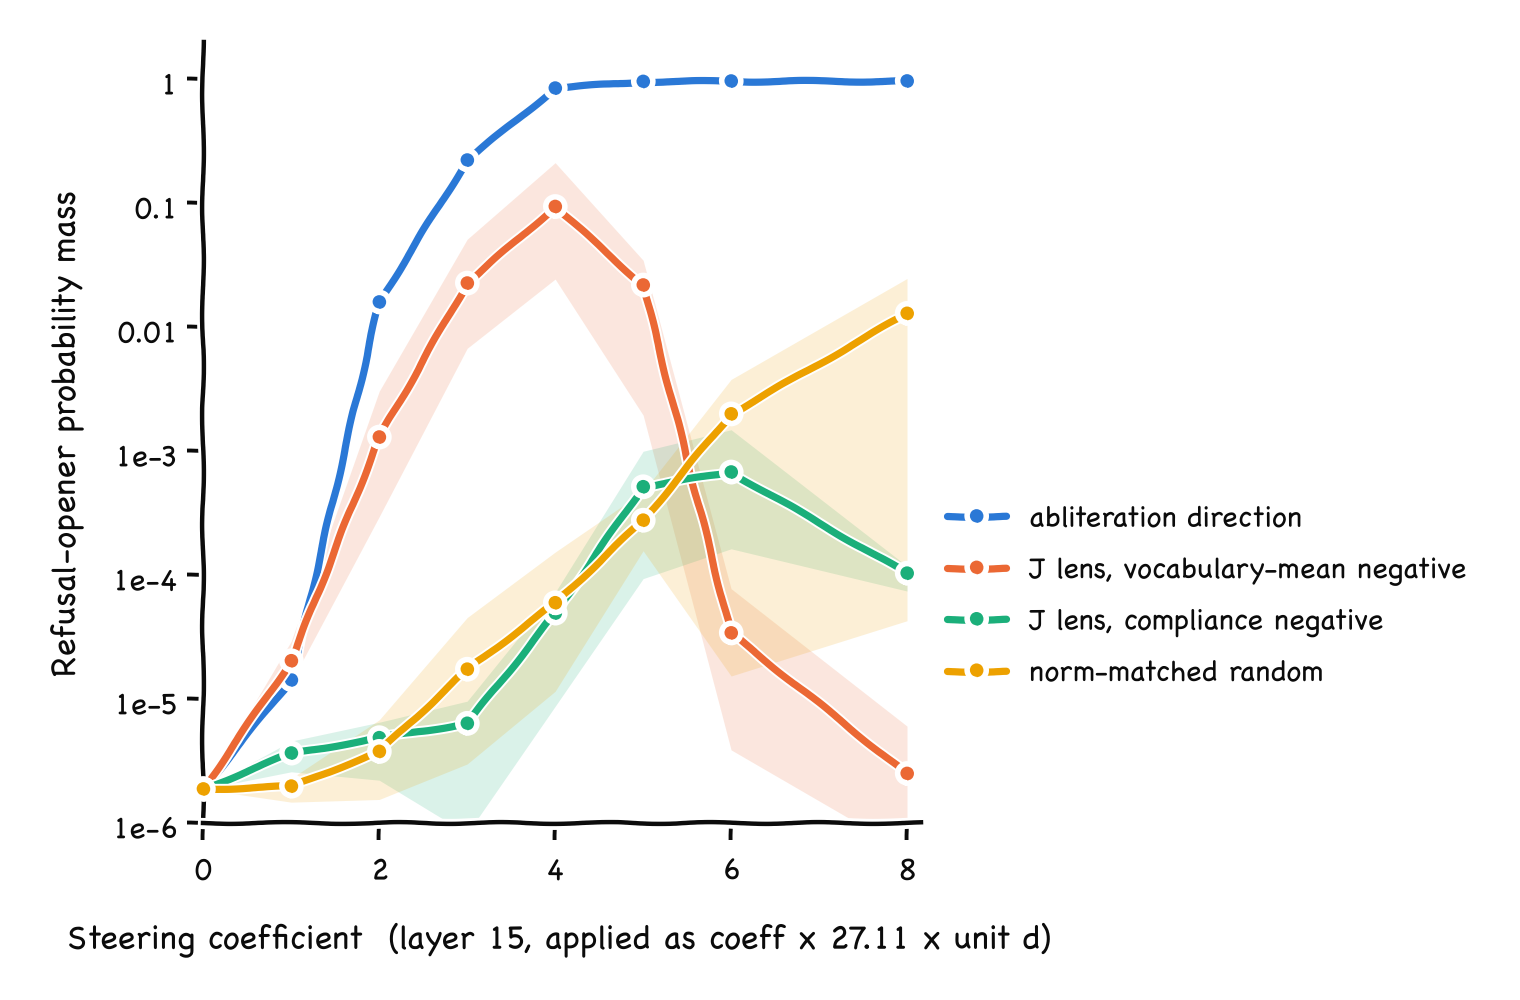
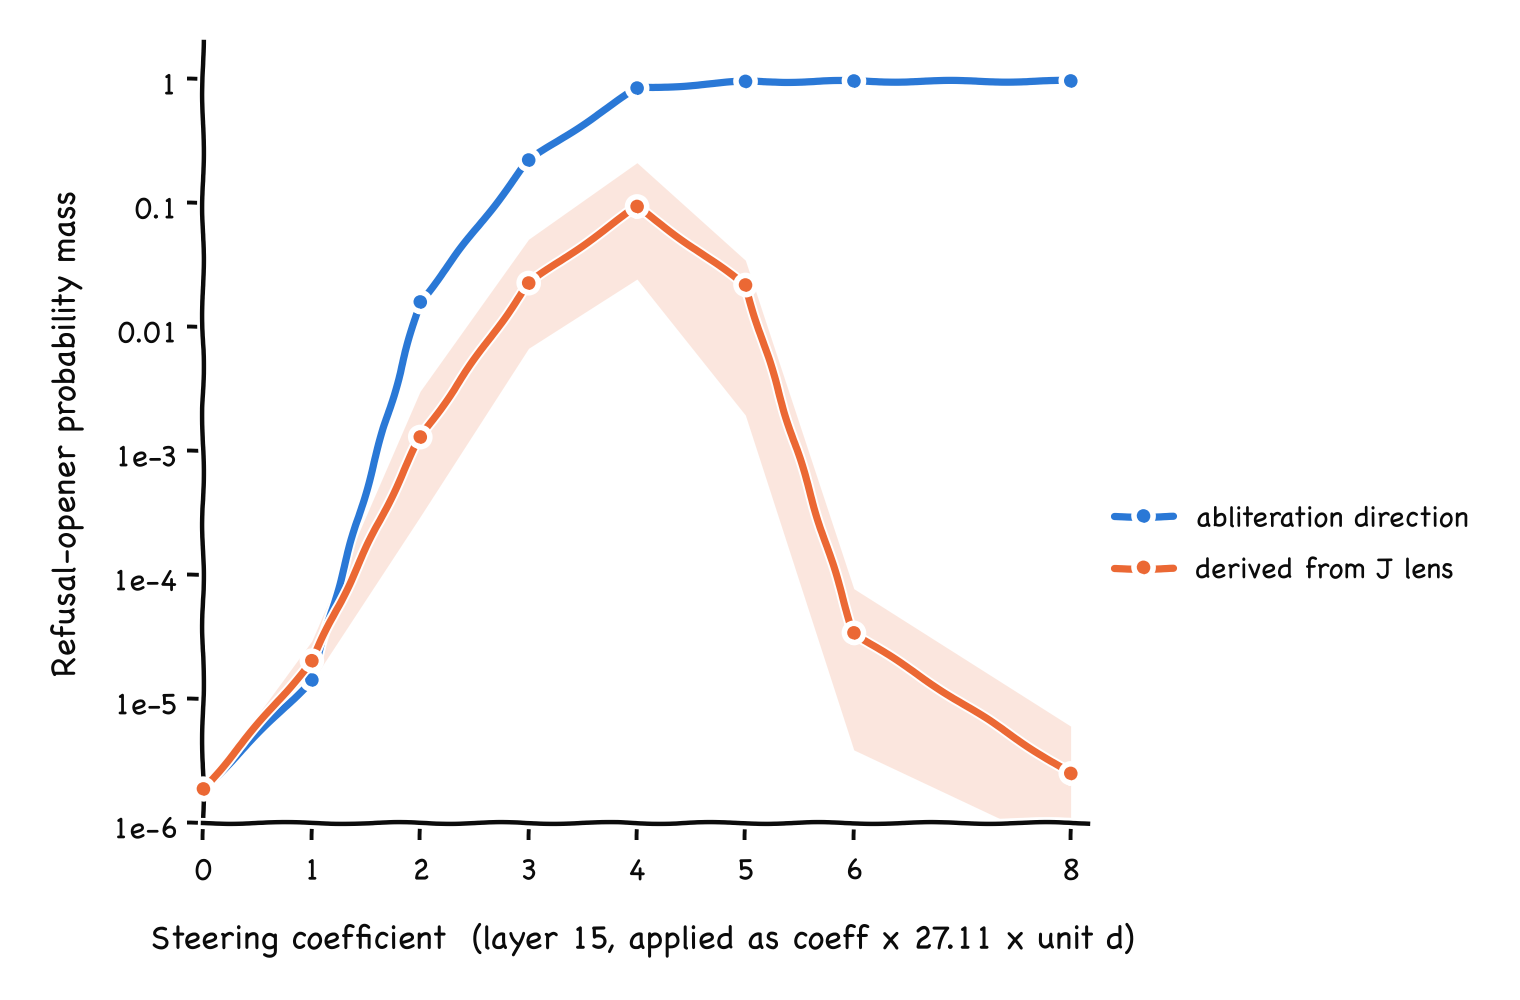
Plot only abliteration against the J-lens derived direction
Drop the compliance-negative and random-control curves from both
figures and label the remaining derived series simply "derived from
J lens". Both dropped series are still swept and scored; their numbers
stay in the JSON and the README table.

Also tick the x-axis at the sampled coefficients so the gap between 6
and 8 no longer implies a point at 7.

diff --git a/scripts/eval_refusal_methods.py b/scripts/eval_refusal_methods.py
@@ -35,6 +35,8 @@ LABELS = {
     "random": "norm-matched random",
 }
 ORDER = ["abliteration", "vocab", "compliance", "random"]
+PLOT_SERIES = ["abliteration", "vocab"]
+PLOT_LABELS = {"abliteration": "abliteration direction", "vocab": "derived from J lens"}
 
 METRICS_PATH = ARTIFACTS / "refusal_methods_eval.json"
 SAMPLES_PATH = ARTIFACTS / "refusal_methods_samples.json"
@@ -106,13 +108,13 @@ def build_plots(result):
         ),
     ):
         series = []
-        for name in ORDER:
+        for name in PLOT_SERIES:
             entry = result["series"][name]
             xs = entry["coefficients"]
             mean = [scale * v for v in entry[key]["mean"]]
             lo = entry[key]["lo"] and [scale * v for v in entry[key]["lo"]]
             hi = entry[key]["hi"] and [scale * v for v in entry[key]["hi"]]
-            series.append((LABELS[name], xs, mean, lo, hi))
+            series.append((PLOT_LABELS[name], xs, mean, lo, hi))
         render_bands(
             series,
             f"Steering coefficient  (layer {REFUSAL_LAYER}, applied as coeff x {SCALE} x unit d)",

diff --git a/scripts/plots.py b/scripts/plots.py
@@ -239,7 +239,9 @@ def render_bands(series, xlabel, ylabel, path, ylim=None, logy=False, legend_anc
             ax.minorticks_off()
         if ylim:
             ax.set_ylim(*ylim)
-        ax.set_xlim(0, max(x for _, xs, *_ in series for x in xs) * 1.02)
+        ticks = sorted({x for _, xs, *_ in series for x in xs})
+        ax.set_xticks(ticks)
+        ax.set_xlim(0, max(ticks) * 1.02)
         ax.grid(False)
         for side in ("top", "right"):
             ax.spines[side].set_visible(False)

diff --git a/README.md b/README.md
@@ -533,8 +533,12 @@ worth knowing before trusting any of these rates.
 
 Seed spread is large, as expected for the noisier concept: at `coeff = 4` the
 vocabulary-mean direction ranges over 0.024 to 0.213 opener mass across three
-seeds. In the rate panel the compliance and random series are both identically
-zero and overlap.
+seeds, which is the shaded band.
+
+The two figures plot only the abliteration direction and the J-lens derived one
+(the vocabulary-mean negative, labelled just "derived from J lens"). The
+compliance-negative and random-control series are still swept and scored; their
+numbers are in the table above and in `refusal_methods_eval.json`.
 
 ## A note on this network
 
